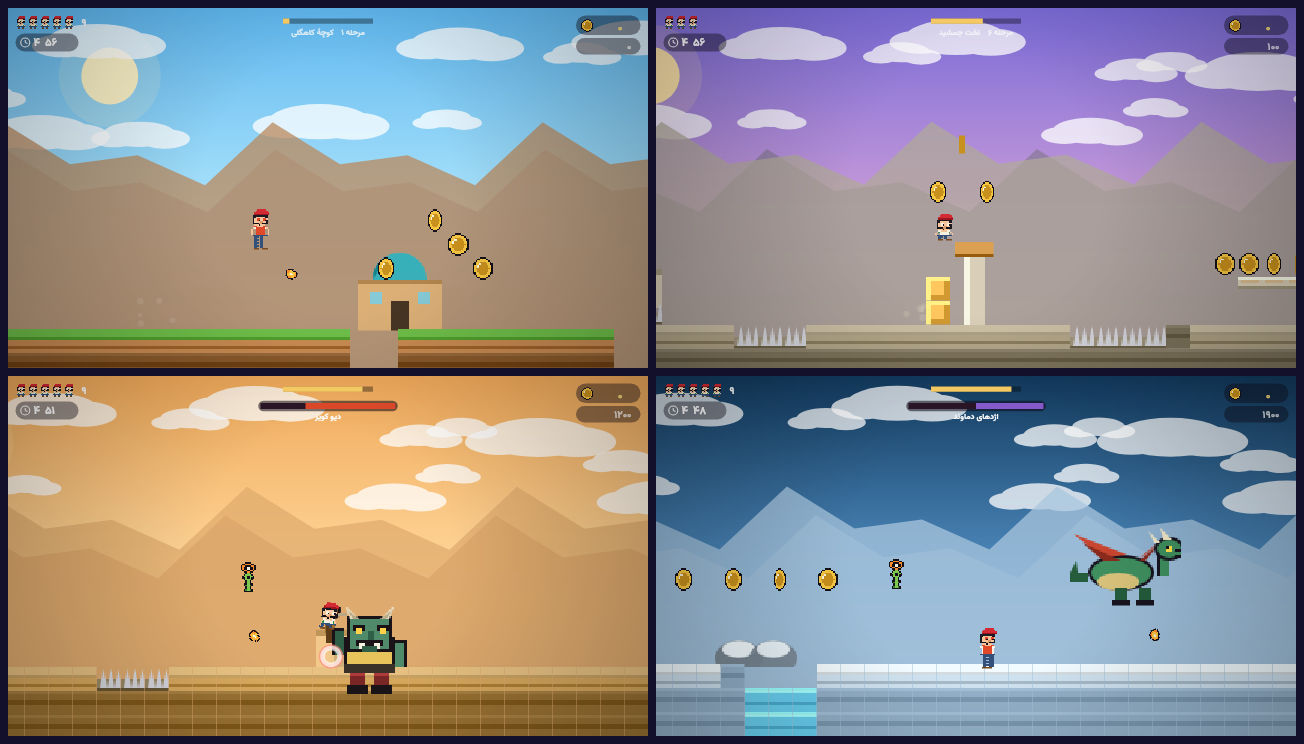
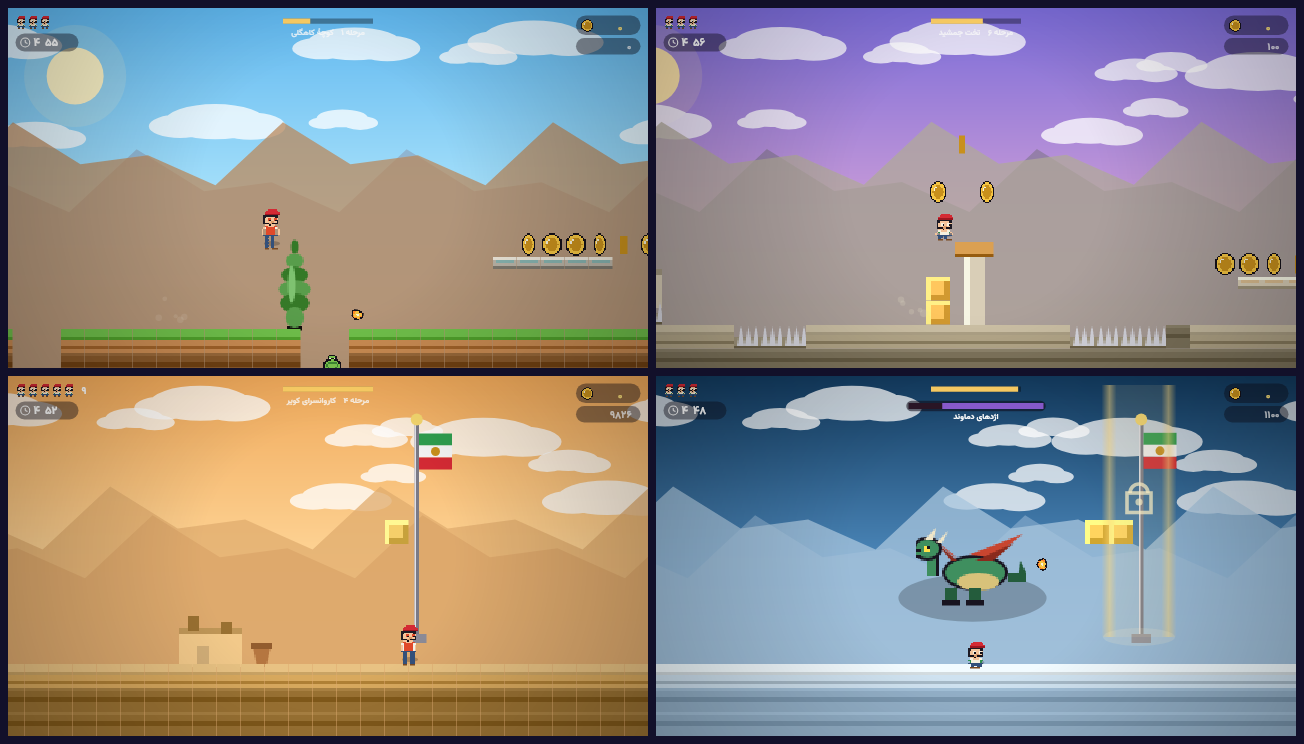
تجربهٔ بازی: کادر معرفی مرحله و نبرد رئیس، نکتههای صفحهٔ توقف، تنظیم کیفیت گرافیک (خودکار)، سایهٔ اجسام، گودالهای کمژرف در مرحلههای آغازین، نسخهٔ ۱.۰.۱

diff --git a/game/www/js/render.js b/game/www/js/render.js
@@ -18,6 +18,8 @@ export class Renderer {
     this.viewW = 400;
     this.viewH = VIEW_H;
     this.quality = 1;
+    this.lowQuality = false;      // تنظیم «کیفیت» بازی: کمتر کردن جلوههای گران
+    this.shadows = true;          // سایهٔ زیر شخصیتها و دشمنان
     this.atlas = {};
     this.decorCache = {};
     this.time = 0;
@@ -410,7 +412,9 @@ export class Renderer {
     }
 
     /* ابرها */
-    for (const c of this.clouds) {
+    const cloudStep = this.lowQuality ? 2 : 1;
+    for (let ci = 0; ci < this.clouds.length; ci += cloudStep) {
+      const c = this.clouds[ci];
       const x = ((c.x - camX * 0.12 + this.time * c.v) % (vw + 260) + vw + 260) % (vw + 260) - 130;
       const y = c.y - camY * 0.08;
       g.fillStyle = th.night ? 'rgba(180,200,230,0.28)' : 'rgba(255,255,255,0.75)';
@@ -547,9 +551,9 @@ export class Renderer {
     if (world.flag) this.drawFlag(g, world.flag, cam, world);
     // دشمنان
     for (const e of world.entities) {
-      if (e.kind === 'enemy') this.drawEnemy(g, e, cam);
+      if (e.kind === 'enemy') { this.drawGroundShadow(g, e, cam, 1); this.drawEnemy(g, e, cam); }
       else if (e.kind === 'shell') e.draw(g, cam);
-      else if (e.kind === 'boss') this.drawBoss(g, e, cam);
+      else if (e.kind === 'boss') { this.drawGroundShadow(g, e, cam, e.type === 'dragon' ? 1.3 : 1.1); this.drawBoss(g, e, cam); }
       else if (e instanceof Object && e.tile !== undefined) this.drawDebris(g, e, cam);
     }
     // گلولههای آتش
@@ -566,7 +570,22 @@ export class Renderer {
     if (p && !(p.dead && p.deathTimer > 0.9)) this.drawPlayer(g, p, cam, world);
   }
 
+  /* سایهٔ بیضی زیر اجسام (قابل خاموشکردن در تنظیمات) */
+  drawGroundShadow(g, e, cam, scale = 1) {
+    if (!this.shadows || this.lowQuality) return;
+    const x = Math.round(e.cx - cam.x);
+    const y = Math.round(e.y + e.h - cam.y);
+    g.save();
+    g.globalAlpha = 0.22;
+    g.fillStyle = '#000';
+    g.beginPath();
+    g.ellipse(x, y - 1, (e.w * 0.5) * scale, Math.max(1.5, e.w * 0.16) * scale, 0, 0, 6.3);
+    g.fill();
+    g.restore();
+  }
+
   drawPlayer(g, p, cam, world) {
+    this.drawGroundShadow(g, p, cam, 0.9);
     const key = p.spriteKey;
     const entry = Sprite.hero[p.big ? 'big' : 'small'][key.split('.')[1]];
     if (!entry) return;
@@ -880,7 +899,54 @@ export class Renderer {
       g.fillText(boss.type === 'div' ? 'دیو کویر' : 'اژدهای دماوند', W / 2, by + 22 * s);
       g.textAlign = 'left';
     }
+
+    // کارت معرفی مرحله و کارت نبرد رئیس
+    this.drawBanners(world, s, W, H);
+
     g.textAlign = 'left';
+  }
+
+  /* کارتهای بزرگ وسط صفحه: «مرحله ۳ — گلستان ارم» و «نبرد رئیس!» */
+  drawBanners(world, s, W, H) {
+    const g = this.g;
+    const card = (t, total, title, sub, color) => {
+      const p = 1 - t / total;                       // ۰ تا ۱
+      const appear = Math.min(1, p / 0.12);
+      const leave = t < 0.45 ? Math.max(0, t / 0.45) : 1;
+      const a = Math.min(appear, leave);
+      if (a <= 0.01) return;
+      const w = Math.min(W * 0.66, 430 * s), h = 64 * s;
+      const cx = W / 2, cy = H * 0.40;
+      g.save();
+      g.globalAlpha = a * 0.88;
+      g.fillStyle = 'rgba(14,10,26,0.92)';
+      if (g.roundRect) { g.beginPath(); g.roundRect(cx - w / 2, cy - h / 2, w, h, 12 * s); g.fill(); }
+      else g.fillRect(cx - w / 2, cy - h / 2, w, h);
+      g.globalAlpha = a;
+      g.strokeStyle = color;
+      g.lineWidth = 2 * s;
+      if (g.roundRect) { g.beginPath(); g.roundRect(cx - w / 2, cy - h / 2, w, h, 12 * s); g.stroke(); }
+      else g.strokeRect(cx - w / 2, cy - h / 2, w, h);
+      g.textAlign = 'center';
+      g.fillStyle = '#ffffff';
+      g.font = `bold ${Math.round(19 * s)}px Vazirmatn, sans-serif`;
+      g.fillText(title, cx, cy + 4 * s);
+      if (sub) {
+        g.fillStyle = color;
+        g.font = `bold ${Math.round(12 * s)}px Vazirmatn, sans-serif`;
+        g.fillText(sub, cx, cy + 23 * s);
+      }
+      g.restore();
+      g.textAlign = 'left';
+    };
+    if (world.introT > 0 && !world.completed) {
+      const lv = world.level;
+      const hazards = (lv.hazard || []).map((h) => ({ water: 'آب', spike: 'نیزه', void: 'پرتگاه' }[h] || '')).filter(Boolean);
+      const sub = hazards.length ? `خطرها: ${hazards.join('، ')}` : (lv.boss ? 'پایان مرحله: نبرد رئیس' : '');
+      card(world.introT, 2.8, `مرحله ${fa(lv.n)} — ${lv.name}`, sub, '#ffd166');
+    } else if (world.bossIntroT > 0 && world.boss && !world.boss.defeated) {
+      card(world.bossIntroT, 2.8, 'نبرد رئیس!', world.boss.type === 'div' ? 'دیو کویر' : 'اژدهای دماوند', '#ff6a4d');
+    }
   }
 
   /* سپر طلایی روی پرچم تا زمانی که رئیس شکست نخورده */
@@ -927,6 +993,7 @@ export class Renderer {
   }
 
   drawVignette() {
+    if (this.lowQuality) return;
     const g = this.g;
     const W = this.canvas.width, H = this.canvas.height;
     const grad = g.createRadialGradient(W / 2, H / 2, Math.min(W, H) * 0.35, W / 2, H / 2, Math.max(W, H) * 0.75);

diff --git a/game/www/js/ui.js b/game/www/js/ui.js
@@ -158,6 +158,29 @@ export class UI {
     if (q) q.value = s.quality || 'auto';
   }
 
+  /* راهنما و نکتهٔ مرحله روی صفحهٔ توقف */
+  renderPauseTips(levelIndex, endless) {
+    const el = this.el('pause-tips');
+    if (!el) return;
+    if (endless) {
+      el.innerHTML = [
+        '<div class="tip"><b>دوی بیپایان:</b> هرچه جلوتر بروی، دشمنها بیشتر و سریعتر میشوند و پرتگاهها بیشتر میشوند.</div>',
+        '<div class="tip"><b>کنترل:</b> دکمهٔ 🔥 هم شوت گل آتش است و هم برای دویدن؛ با نگهداشتن ▲ بلندتر میپری.</div>',
+        '<div class="tip"><b>هدف:</b> بیشترین امتیاز و بیشترین سکه — سکهها به بانک میروند و در فروشگاه خرج میشوند.</div>',
+      ].join('');
+      return;
+    }
+    const lv = LEVELS[levelIndex];
+    const tips = [];
+    if (lv) tips.push(`<div class="tip"><b>مرحله ${fa(lv.n)} — ${lv.name}:</b> سختی «${DIFFICULTY_LABEL[lv.diff] || ''}»${lv.boss ? ' — در پایان این مرحله یک رئیس منتظر توست!' : ''}</div>`);
+    tips.push('<div class="tip"><b>کنترل:</b> دکمهٔ 🔥 هم شوت گل آتش است و هم برای دویدن؛ با نگهداشتن ▲ بلندتر میپری.</div>');
+    tips.push('<div class="tip"><b>نکته:</b> روی سر دشمنها بپر تا نابود شوند؛ در نبرد رئیس هنگام درخشش طلایی روی سرش بپر (فقط از جلو با گل آتش هم میشود).</div>');
+    if (lv && lv.hazard.includes('water')) tips.push('<div class="tip"><b>خطر این مرحله:</b> آب — پرشهای بلند بزن و از ایستگاه ذخیره غافل نشو.</div>');
+    if (lv && lv.hazard.includes('spike')) tips.push('<div class="tip"><b>خطر این مرحله:</b> نیزهها — روی نوک نیزهها فرود نیا؛ از لبه بپر.</div>');
+    if (lv && lv.hazard.includes('void')) tips.push('<div class="tip"><b>خطر این مرحله:</b> پرتگاه — لبهها را با احتیاط رد کن؛ اگر پَر سیمرغ داری با پرش دوم نجات پیدا میکنی.</div>');
+    el.innerHTML = tips.join('');
+  }
+
   renderComplete(info) {
     this.el('complete-title').textContent = info.boss ? '👑 دشمن بزرگ شکست خورد!' : '🎉 مرحله تمام شد!';
     this.el('complete-stars').textContent = '★'.repeat(info.stars) + '☆'.repeat(3 - info.stars);

diff --git a/game/www/js/main.js b/game/www/js/main.js
@@ -180,7 +180,23 @@ function applyLayout() {
 }
 function applyQuality() {
   const q = App.save.settings.quality;
-  App.lowQuality = q === 'low';
+  const low = q === 'low' || (q === 'auto' && App.autoLow);
+  App.lowQuality = low;
+  if (App.renderer) {
+    App.renderer.lowQuality = low;
+    App.renderer.shadows = !!App.save.settings.shadows;
+  }
+}
+
+/* تشخیص خودکار دستگاه ضعیف: اگر میانگین نرخ فریم پایین بود، یکبار کیفیت کم میشود */
+function checkAutoQuality() {
+  if (App.save.settings.quality !== 'auto' || App.autoLow || App.fpsSamples.length < 60) return;
+  const avg = App.fpsSamples.reduce((a, b) => a + b, 0) / App.fpsSamples.length;
+  if (avg > 0.0235) {   // کمتر از ≈۴۲ فریم بر ثانیه
+    App.autoLow = true;
+    applyQuality();
+    App.ui.toast('⚙ کیفیت گرافیک برای روانی بازی کم شد', 2200);
+  }
 }
 
 function resize() {
@@ -269,7 +285,12 @@ function togglePause(force) {
   const paused = force === undefined ? App.state === 'playing' : force;
   App.state = paused ? 'paused' : 'playing';
   App.world.paused = paused;
-  if (paused) { App.ui.show('screen-pause'); $('btn-pause').classList.add('hidden'); Sound.pauseBlip(); }
+  if (paused) {
+    App.ui.renderPauseTips(App.levelIndex, App.endless);
+    App.ui.show('screen-pause');
+    $('btn-pause').classList.add('hidden');
+    Sound.pauseBlip();
+  }
   else { App.ui.hideScreens(); $('btn-pause').classList.remove('hidden'); App.lastTime = performance.now(); }
 }
 
@@ -409,6 +430,7 @@ function loop(now) {
 
   App.fpsSamples.push(dtReal);
   if (App.fpsSamples.length > 60) App.fpsSamples.shift();
+  if ((App.frameCount = (App.frameCount || 0) + 1) % 30 === 0) checkAutoQuality();
 }
 
 /* ---------------------------------- آغاز --------------------------------- */

diff --git a/game/www/js/levels.js b/game/www/js/levels.js
@@ -65,6 +65,9 @@ export function buildLevel(index, opts = {}) {
         for (let i = 0; i < gapW; i++) set(x + i, groundTop, T.SPIKE);
       } else if (hazard === 'water') {
         for (let y = groundTop + 1; y < h; y++) for (let i = 0; i < gapW; i++) set(x + i, y, T.WATER);
+      } else if (!hazard && diff <= 2) {
+        // مرحلههای آغازین: گودال کمژرف؛ سقوط دردناک نیست و بازیکن تازهکار دلسرد نمیشود
+        for (let y = groundTop + 2; y < h; y++) for (let i = 0; i < gapW; i++) set(x + i, y, T.GROUND_DARK);
       }
       lastGap = x + gapW;
       x += gapW - 1;
@@ -296,7 +299,7 @@ export function buildLevel(index, opts = {}) {
     w, h, tiles, entities, decor, spawn: { x: 3 * TILE, y: (groundTop - 2) * TILE },
     goal: { x: flagX * TILE, y: (flagTop - 9) * TILE },
     pixelW: w * TILE, pixelH: h * TILE,
-    time: 300, boss: def.boss,
+    time: 300, boss: def.boss, hazard: def.hazard, bossType: def.boss,
   };
 }
 

diff --git a/game/www/js/game.js b/game/www/js/game.js
@@ -47,6 +47,8 @@ export class World {
     this.paused = false;
     this.camera = { x: 0, y: 0, targetX: 0, targetY: 0 };
     this.transition = 0;
+    this.introT = 2.8;          // کارت معرفی مرحله در آغاز
+    this.bossIntroT = 0;        // کارت «نبرد رئیس!»
     this.starKills = 0;
     this.onEvent = opts.onEvent || (() => {});
     this.spawnAll();
@@ -93,6 +95,12 @@ export class World {
 
   /* ------------------------------ بهروزرسانی ----------------------------- */
   update(dt, input) {
+    if (this.introT > 0) this.introT = Math.max(0, this.introT - dt);
+    if (this.bossIntroT > 0) this.bossIntroT = Math.max(0, this.bossIntroT - dt);
+    if (this.boss && this.boss.active && !this.bossBannerShown && this.state === 'playing') {
+      this.bossBannerShown = true;
+      this.bossIntroT = 2.8;
+    }
     this.input = input;
     if (this.paused) return;
     this.fx.update(dt);

diff --git a/game/www/css/style.css b/game/www/css/style.css
@@ -212,6 +212,17 @@ h2 { margin: 4px 0 10px; font-size: 22px; color: var(--gold); }
 .score-table { width: 100%; font-size: 15px; }
 .score-table div { display: flex; justify-content: space-between; padding: 7px 4px; border-bottom: 1px dashed rgba(255,255,255,.12); }
 
+/* ------------------------------ نکتههای توقف ---------------------------- */
+.tips { display: grid; gap: 8px; margin: 10px 0 4px; text-align: right; }
+.tips .tip {
+  background: rgba(255, 255, 255, .06);
+  border: 1px solid rgba(255, 209, 102, .28);
+  border-radius: 12px;
+  padding: 9px 12px;
+  font-size: 14px; line-height: 1.9; color: #f3eee0;
+}
+.tips .tip b { color: var(--gold); }
+
 /* --------------------------------- توست --------------------------------- */
 .toast {
   position: absolute; left: 50%; bottom: calc(96px + var(--safe-b));

diff --git a/game/www/js/config.js b/game/www/js/config.js
@@ -5,7 +5,7 @@
 
 export const GAME_TITLE = 'قارچخور';
 export const GAME_SUBTITLE = 'ماجراهای کوکو در ایران';
-export const VERSION = '1.0.0';
+export const VERSION = '1.0.1';
 
 /* ------------------------------- فیزیک بازی ------------------------------ */
 export const TILE = 16;                 // اندازهٔ هر خانه (پیکسل منطقی)

diff --git a/game/www/index.html b/game/www/index.html
@@ -151,6 +151,7 @@
   <section id="screen-pause" class="screen">
     <div class="panel">
       <h2>⏸ توقف</h2>
+      <div id="pause-tips" class="tips"></div>
       <div class="menu-grid">
         <button class="btn primary" id="btn-resume">ادامه</button>
         <button class="btn" id="btn-restart">شروع دوبارهٔ مرحله</button>

diff --git a/game/README.md b/game/README.md
@@ -4,7 +4,7 @@
 
 ![صحنههای بازی](docs/gallery.png)
 
-> 📱 **دانلود APK:** در صفحهٔ [Releases](../../releases) فایل `gharchekhor-game-v1.0.0.apk` را دانلود کن
+> 📱 **دانلود APK:** در صفحهٔ [Releases](../../releases) فایل `gharchekhor-game-v1.0.1.apk` را دانلود کن
 > (یا از Actions → artifact). روی اندروید نصب کن و بازی کن — کاملاً آفلاین. کوکو از کوچههای کاهگلی تهران تا قلهٔ دماوند میدود،
 قارچ و سکه جمع میکند، با دیو کویر و اژدهای دماوند میجنگد و پرچم ایران را بالا میبرد.
 
